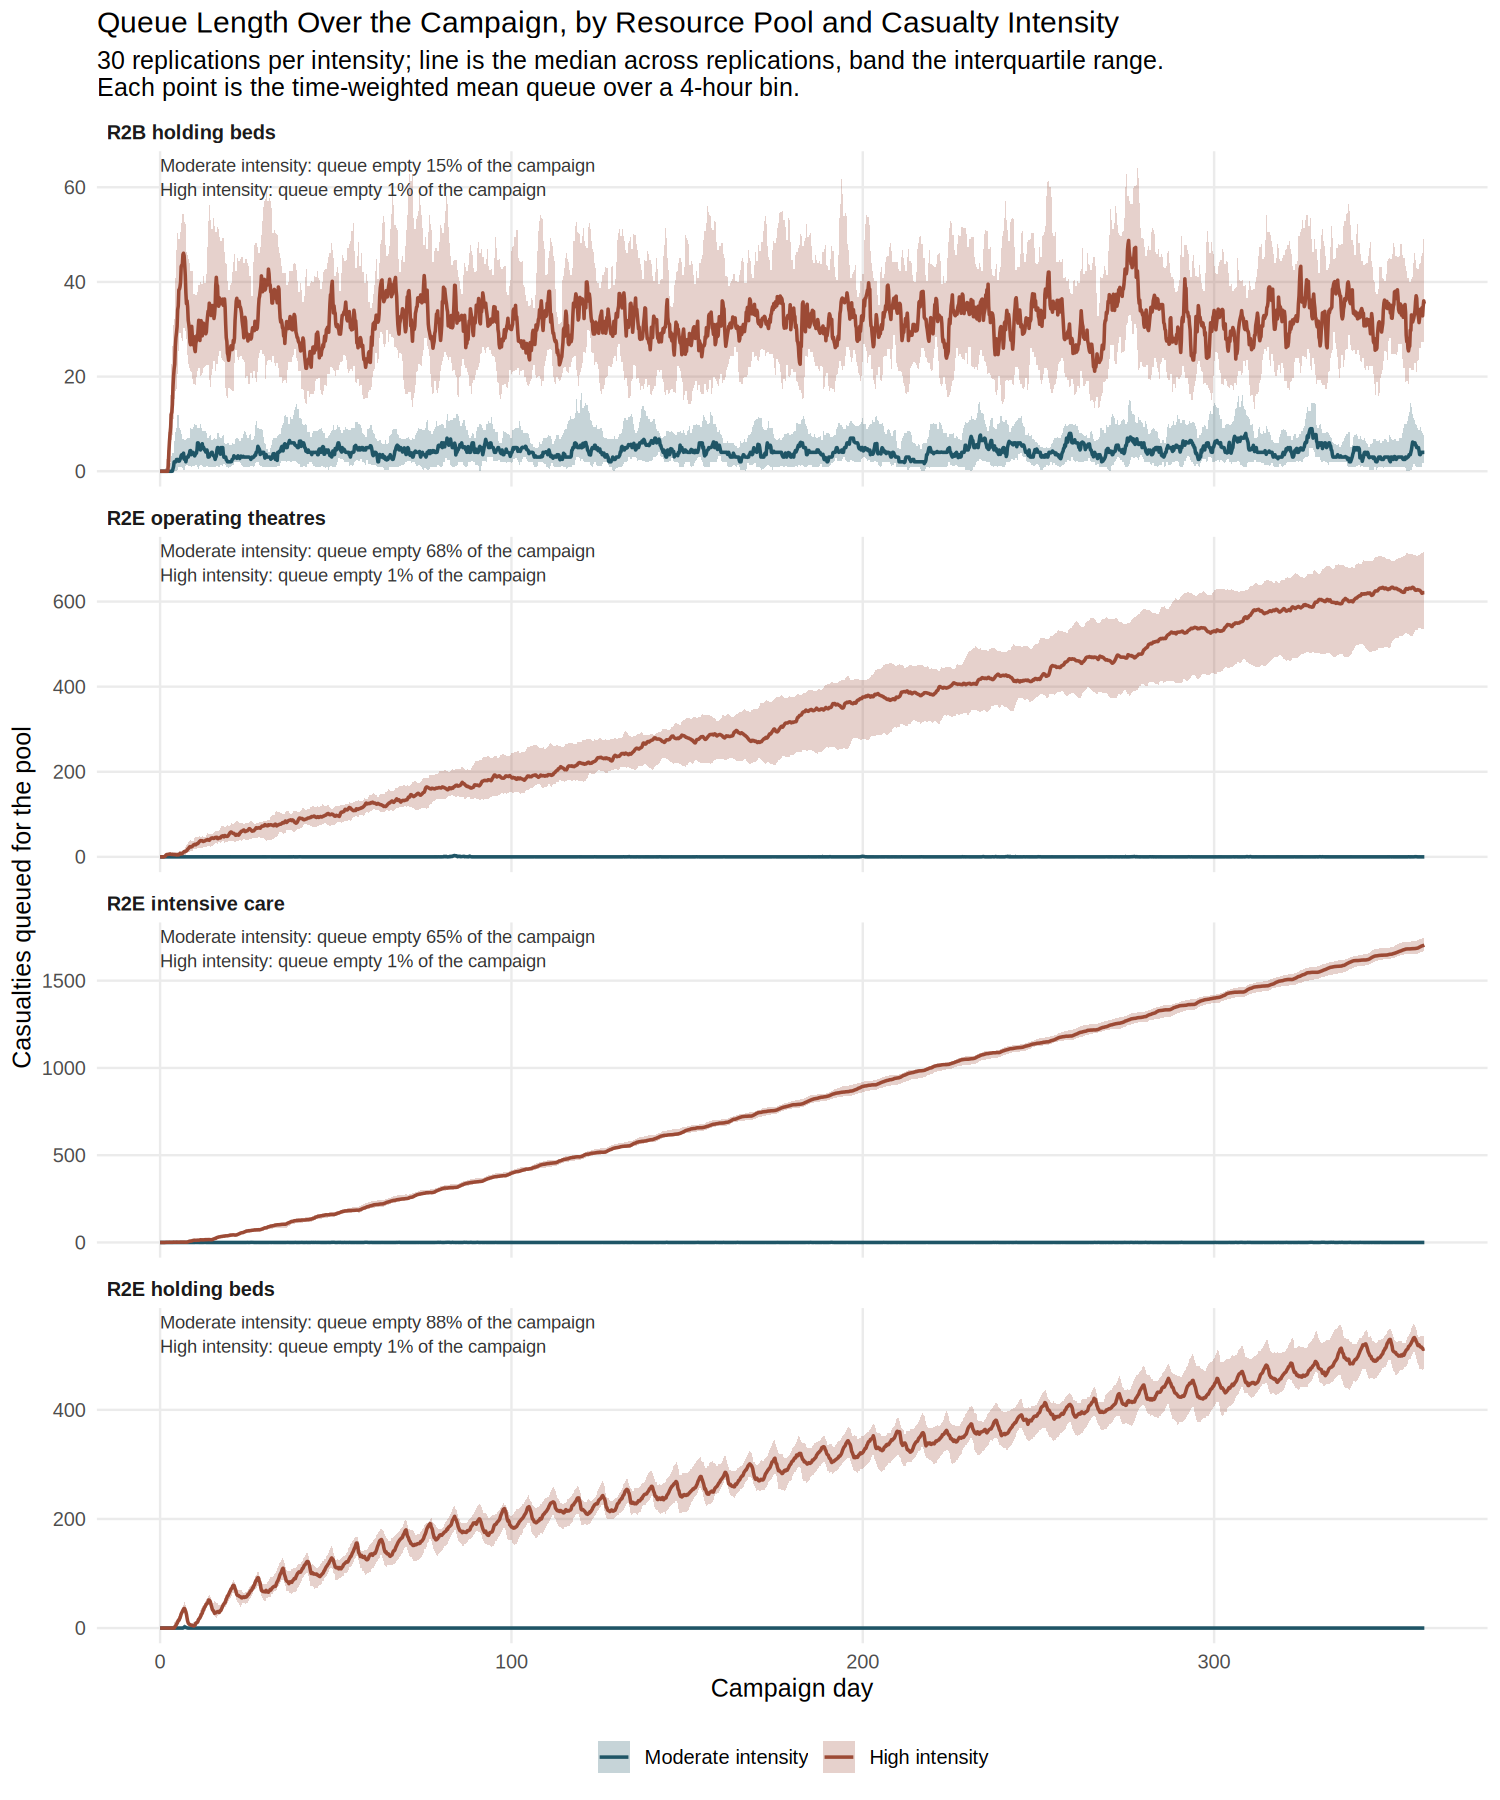
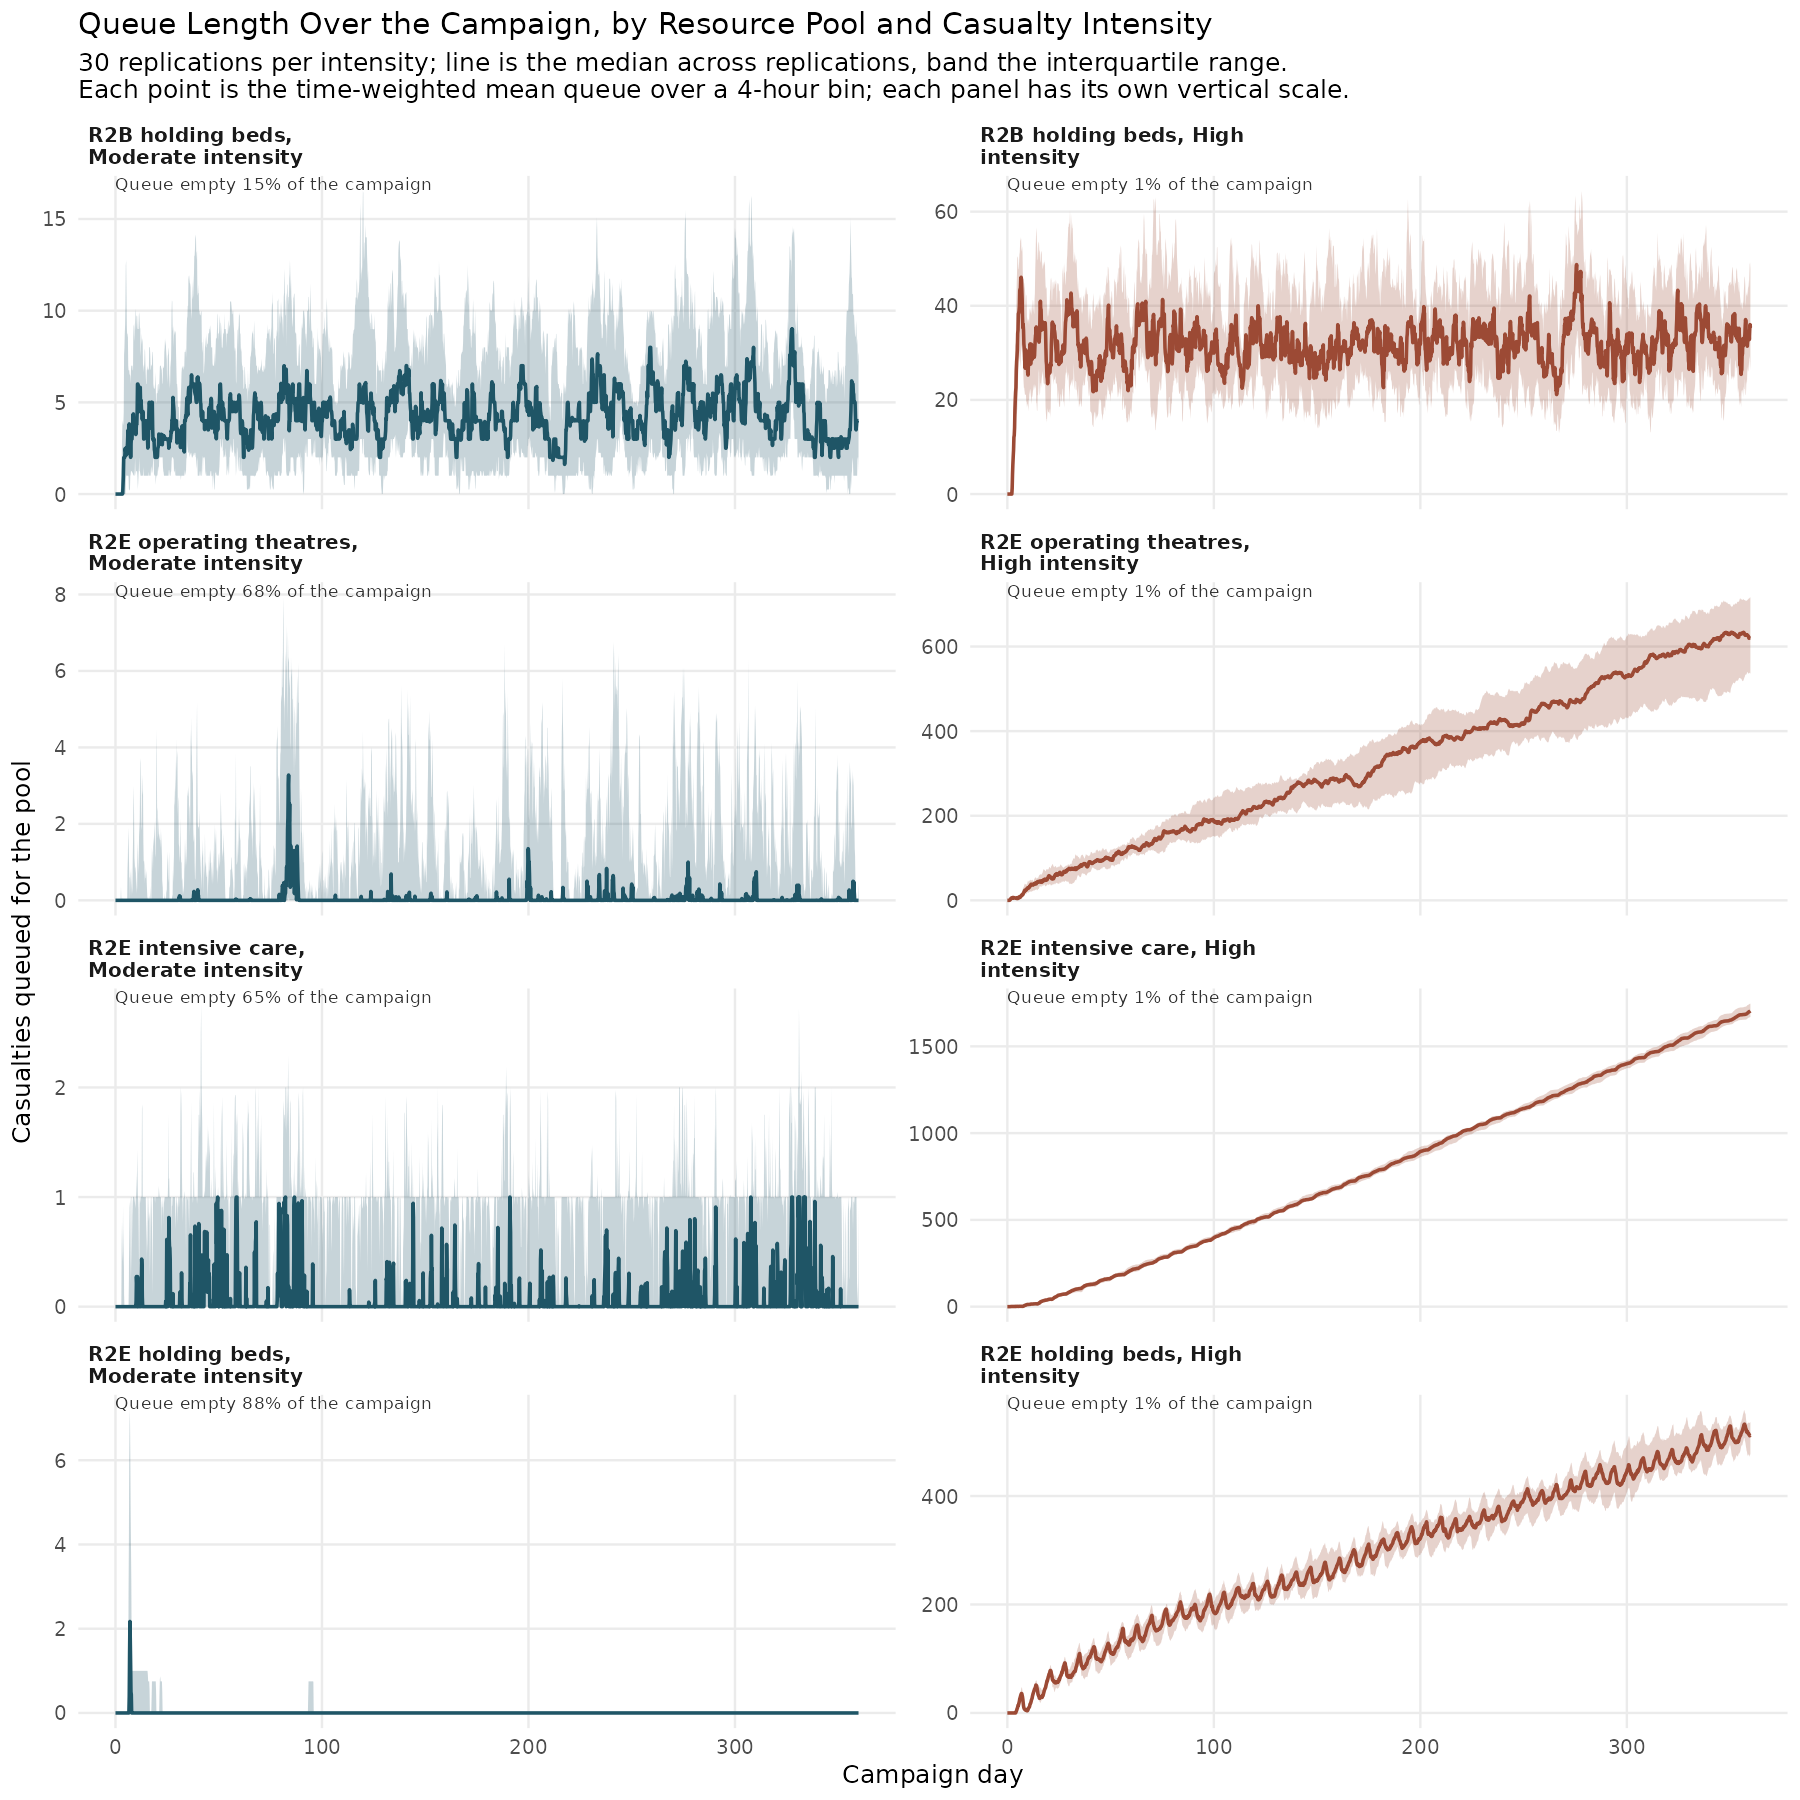
feat(figures): give each pool and intensity its own queue panel and scale
The queue-over-time figure overlaid both intensities on one vertical scale
per pool, so the high-intensity queues, two to three orders of magnitude
larger, flattened every moderate-intensity series to the axis. Each pool
and intensity now has its own panel and vertical scale; the magnitudes
remain compared in the results tables. Figure re-rendered from the
tracked data/time_series/ series with --refresh-baseline.

Claude-Session: https://claude.ai/code/session_01KGdABKeVrtdAbWY3WBcp2E

diff --git a/docs/Results.md b/docs/Results.md
@@ -124,7 +124,7 @@ The R2B operating theatre queue was zero at both intensities. At moderate intens
 
 ![Four stacked panels of queue length against campaign day, one per resource pool, at the two casualty intensities](../images/queue_length_over_time.png)
 
-Queue length against campaign day for each pool, as the median across replications with an interquartile band, at each casualty intensity. Each panel is annotated with the share of the campaign the queue stood empty.
+Queue length against campaign day for each pool, as the median across replications with an interquartile band, one panel per pool and casualty intensity on its own vertical scale. Each panel is annotated with the share of the campaign the queue stood empty.
 
 The table reports, for each pool and intensity, the median across replications of the share of the campaign the pool's queue stood empty and of the longest unbroken spell it did not, with the interquartile range of the spell in parentheses. At high intensity every pool listed stood empty for <!-- GEN cell:queue_clearance|R2E operating theatres|High: queue empty|full -->1%<!-- /GEN --> of the campaign or less, and the median longest spell above zero in the R2E operating theatres was <!-- GEN cell:queue_clearance|R2E operating theatres|High: longest run above zero (days)|full -->354.9 (352.5–358.4)<!-- /GEN --> of the 360 days. At moderate intensity the same pool stood empty for <!-- GEN cell:queue_clearance|R2E operating theatres|Moderate: queue empty|full -->68%<!-- /GEN --> of the campaign with a median longest spell of <!-- GEN cell:queue_clearance|R2E operating theatres|Moderate: longest run above zero (days)|full -->13.4 (11.1–15.5)<!-- /GEN --> days.
 
